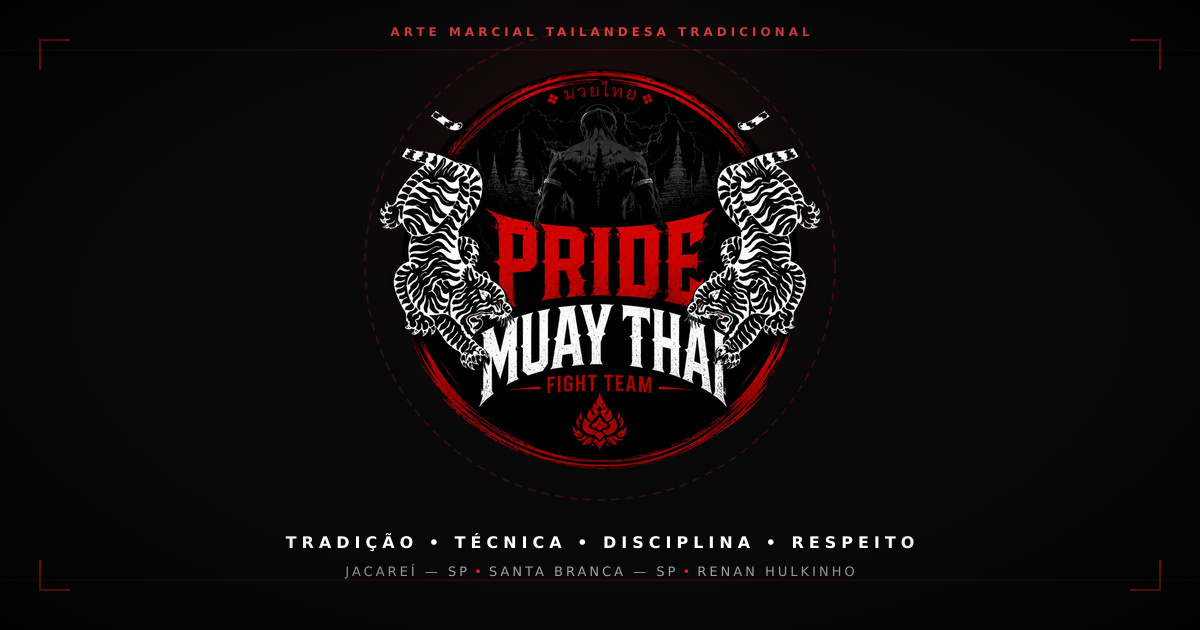
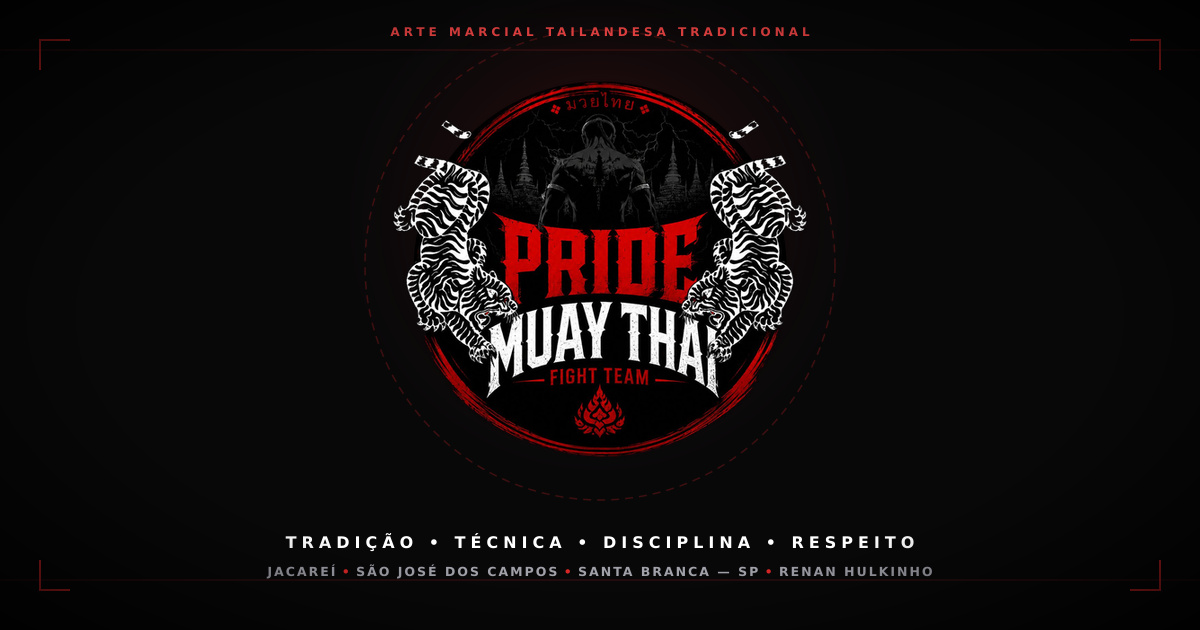
feat: add São José dos Campos to brand locations, SEO, and visual cards

Changed region(s): [[0.3083, 0.0905, 0.6783, 0.754], [0.2158, 0.8746, 0.7708, 0.9349]]

diff --git a/src/components/sections/LocationsSection.tsx b/src/components/sections/LocationsSection.tsx
@@ -22,7 +22,7 @@ export const LocationsSection: React.FC = () => {
             ONDE <span className="text-red-500 text-glow-red">TREINAR?</span>
           </h2>
           <p className="mt-4 text-zinc-400 text-sm sm:text-base leading-relaxed">
-            O Pride Muay Thai atende alunos em duas cidades do Vale do Paraíba. Encontre o ponto ideal para o seu dia a dia.
+            O Pride Muay Thai atende alunos nas principais cidades do Vale do Paraíba. Encontre o polo ideal para o seu dia a dia.
           </p>
         </div>
 
@@ -37,35 +37,38 @@ export const LocationsSection: React.FC = () => {
               <svg viewBox="0 0 800 120" className="w-full h-full" fill="none" xmlns="http://www.w3.org/2000/svg">
                 {/* Background dashed route */}
                 <path
-                  d="M 200 60 C 350 20, 450 100, 600 60"
+                  d="M 140 70 Q 270 20, 400 40 T 660 70"
                   stroke="#27272a"
                   strokeWidth="3"
                   strokeDasharray="6 6"
                 />
                 {/* Glowing red active line */}
                 <path
-                  d="M 200 60 C 350 20, 450 100, 600 60"
+                  d="M 140 70 Q 270 20, 400 40 T 660 70"
                   stroke="#dc2626"
                   strokeWidth="2"
                   strokeOpacity="0.8"
                 />
-                
-                {/* Midpoint route radar pulse */}
-                <circle cx="400" cy="60" r="14" fill="#18181b" stroke="#71717a" strokeWidth="1.5" />
-                <circle cx="400" cy="60" r="4" fill="#dc2626" />
 
                 {/* Jacareí Node */}
-                <circle cx="200" cy="60" r="20" fill="#260e11" stroke="#dc2626" strokeWidth="2.5" />
-                <circle cx="200" cy="60" r="8" fill="#ff1e27" className="animate-pulse" />
+                <circle cx="140" cy="70" r="18" fill="#260e11" stroke="#dc2626" strokeWidth="2.5" />
+                <circle cx="140" cy="70" r="7" fill="#ff1e27" className="animate-pulse" />
+                <text x="140" y="105" textAnchor="middle" fill="#a1a1aa" fontSize="12" fontFamily="monospace">JACAREÍ</text>
+
+                {/* São José dos Campos Node */}
+                <circle cx="400" cy="40" r="20" fill="#260e11" stroke="#dc2626" strokeWidth="2.5" />
+                <circle cx="400" cy="40" r="8" fill="#ff1e27" className="animate-pulse" />
+                <text x="400" y="75" textAnchor="middle" fill="#a1a1aa" fontSize="12" fontFamily="monospace">SÃO JOSÉ DOS CAMPOS</text>
 
                 {/* Santa Branca Node */}
-                <circle cx="600" cy="60" r="20" fill="#260e11" stroke="#dc2626" strokeWidth="2.5" />
-                <circle cx="600" cy="60" r="8" fill="#ff1e27" className="animate-pulse" />
+                <circle cx="660" cy="70" r="18" fill="#260e11" stroke="#dc2626" strokeWidth="2.5" />
+                <circle cx="660" cy="70" r="7" fill="#ff1e27" className="animate-pulse" />
+                <text x="660" y="105" textAnchor="middle" fill="#a1a1aa" fontSize="12" fontFamily="monospace">SANTA BRANCA</text>
               </svg>
             </div>
 
             {/* City Cards Grid */}
-            <div className="grid grid-cols-1 md:grid-cols-2 gap-6 sm:gap-8 relative z-10">
+            <div className="grid grid-cols-1 md:grid-cols-3 gap-5 sm:gap-6 relative z-10">
               
               {/* Jacareí Card */}
               <div className="p-6 sm:p-7 rounded-xl bg-zinc-900/90 border border-zinc-800 hover:border-red-600/60 transition-all duration-300 flex flex-col justify-between group shadow-xl">
@@ -73,16 +76,16 @@ export const LocationsSection: React.FC = () => {
                   <div className="flex items-center justify-between mb-3">
                     <span className="text-xs font-mono uppercase tracking-widest text-red-400 font-semibold flex items-center gap-1.5">
                       <Navigation size={13} />
-                      Cidade Polo
+                      Polo Regional
                     </span>
                     <span className="px-2 py-0.5 rounded text-[11px] font-bold bg-red-950/80 text-red-300 border border-red-800/40">
                       SP
                     </span>
                   </div>
-                  <h3 className="font-fight text-3xl sm:text-4xl text-white uppercase tracking-wide group-hover:text-red-400 transition-colors">
+                  <h3 className="font-fight text-2xl sm:text-3xl text-white uppercase tracking-wide group-hover:text-red-400 transition-colors">
                     Jacareí
                   </h3>
-                  <p className="mt-2 text-zinc-300 text-sm leading-relaxed">
+                  <p className="mt-2 text-zinc-300 text-xs sm:text-sm leading-relaxed">
                     Atividades com acompanhamento técnico contínuo para turmas iniciantes e intermediárias.
                   </p>
                 </div>
@@ -100,23 +103,56 @@ export const LocationsSection: React.FC = () => {
                 </div>
               </div>
 
+              {/* São José dos Campos Card */}
+              <div className="p-6 sm:p-7 rounded-xl bg-zinc-900/90 border border-zinc-800 hover:border-red-600/60 transition-all duration-300 flex flex-col justify-between group shadow-xl">
+                <div>
+                  <div className="flex items-center justify-between mb-3">
+                    <span className="text-xs font-mono uppercase tracking-widest text-red-400 font-semibold flex items-center gap-1.5">
+                      <Navigation size={13} />
+                      Polo Regional
+                    </span>
+                    <span className="px-2 py-0.5 rounded text-[11px] font-bold bg-red-950/80 text-red-300 border border-red-800/40">
+                      SP
+                    </span>
+                  </div>
+                  <h3 className="font-fight text-2xl sm:text-3xl text-white uppercase tracking-wide group-hover:text-red-400 transition-colors">
+                    São José dos Campos
+                  </h3>
+                  <p className="mt-2 text-zinc-300 text-xs sm:text-sm leading-relaxed">
+                    Turmas dinâmicas com foco em técnica autêntica, condicionamento físico de alta intensidade e evolução constante.
+                  </p>
+                </div>
+
+                <div className="mt-6 pt-4 border-t border-zinc-800/80">
+                  <a
+                    href={getWhatsAppUrl("Olá, Renan! Gostaria de saber sobre as unidades e horários em São José dos Campos - SP.")}
+                    target="_blank"
+                    rel="noopener noreferrer"
+                    className="inline-flex items-center gap-2 text-xs uppercase font-mono tracking-wider text-red-400 hover:text-red-300 font-semibold"
+                  >
+                    <span>Ver horários em SJC</span>
+                    <Navigation size={13} className="rotate-45" />
+                  </a>
+                </div>
+              </div>
+
               {/* Santa Branca Card */}
               <div className="p-6 sm:p-7 rounded-xl bg-zinc-900/90 border border-zinc-800 hover:border-red-600/60 transition-all duration-300 flex flex-col justify-between group shadow-xl">
                 <div>
                   <div className="flex items-center justify-between mb-3">
                     <span className="text-xs font-mono uppercase tracking-widest text-red-400 font-semibold flex items-center gap-1.5">
                       <Navigation size={13} />
-                      Cidade Polo
+                      Polo Regional
                     </span>
                     <span className="px-2 py-0.5 rounded text-[11px] font-bold bg-red-950/80 text-red-300 border border-red-800/40">
                       SP
                     </span>
                   </div>
-                  <h3 className="font-fight text-3xl sm:text-4xl text-white uppercase tracking-wide group-hover:text-red-400 transition-colors">
+                  <h3 className="font-fight text-2xl sm:text-3xl text-white uppercase tracking-wide group-hover:text-red-400 transition-colors">
                     Santa Branca
                   </h3>
-                  <p className="mt-2 text-zinc-300 text-sm leading-relaxed">
-                    Treinos dinâmicos com foco em disciplina, biomecânica e desenvolvimento atlético no município.
+                  <p className="mt-2 text-zinc-300 text-xs sm:text-sm leading-relaxed">
+                    Treinos focados em disciplina, biomecânica dos golpes tradicionais e desenvolvimento marcial integral.
                   </p>
                 </div>
 

diff --git a/index.html b/index.html
@@ -7,10 +7,10 @@
     <meta name="viewport" content="width=device-width, initial-scale=1.0, maximum-scale=5.0, viewport-fit=cover" />
     
     <!-- SEO Primary Meta Tags -->
-    <title>Pride Muay Thai | Renan Hulkinho — Treinos em Jacareí e Santa Branca</title>
-    <meta name="title" content="Pride Muay Thai | Renan Hulkinho — Treinos em Jacareí e Santa Branca" />
-    <meta name="description" content="Aprenda Muay Thai autêntico com a equipe Pride Muay Thai liderada por Renan Hulkinho. Força, disciplina, técnica e respeito. Aulas em Jacareí e Santa Branca - SP." />
-    <meta name="keywords" content="Muay Thai Jacareí, Muay Thai Santa Branca, aula de Muay Thai Jacareí, treino de Muay Thai Jacareí, Muay Thai Vale do Paraíba, Pride Muay Thai, Renan Hulkinho, arte das oito armas" />
+    <title>Pride Muay Thai | Renan Hulkinho — Treinos em Jacareí, São José dos Campos e Santa Branca</title>
+    <meta name="title" content="Pride Muay Thai | Renan Hulkinho — Treinos em Jacareí, São José dos Campos e Santa Branca" />
+    <meta name="description" content="Aprenda Muay Thai autêntico com a equipe Pride Muay Thai liderada por Renan Hulkinho. Força, disciplina, técnica e respeito. Aulas em Jacareí, São José dos Campos e Santa Branca - SP." />
+    <meta name="keywords" content="Muay Thai Jacareí, Muay Thai São José dos Campos, Muay Thai Santa Branca, Muay Thai SJC, aula de Muay Thai Jacareí, treino de Muay Thai Jacareí, Muay Thai Vale do Paraíba, Pride Muay Thai, Renan Hulkinho, arte das oito armas" />
     <meta name="author" content="Pride Muay Thai" />
     <meta name="robots" content="index, follow" />
     <link rel="canonical" href="https://luscanascimento.github.io/pride-muay-thai/" />
@@ -19,7 +19,7 @@
     <meta property="og:type" content="website" />
     <meta property="og:url" content="https://luscanascimento.github.io/pride-muay-thai/" />
     <meta property="og:title" content="Pride Muay Thai | Renan Hulkinho" />
-    <meta property="og:description" content="Tradição, técnica e disciplina. Treine Muay Thai autêntico em Jacareí e Santa Branca com Renan Hulkinho." />
+    <meta property="og:description" content="Tradição, técnica e disciplina. Treine Muay Thai autêntico em Jacareí, São José dos Campos e Santa Branca com Renan Hulkinho." />
     <meta property="og:image" content="./og-image.jpg" />
     <meta property="og:site_name" content="Pride Muay Thai" />
     <meta property="og:locale" content="pt_BR" />
@@ -28,7 +28,7 @@
     <meta property="twitter:card" content="summary_large_image" />
     <meta property="twitter:url" content="https://luscanascimento.github.io/pride-muay-thai/" />
     <meta property="twitter:title" content="Pride Muay Thai | Renan Hulkinho" />
-    <meta property="twitter:description" content="Tradição, técnica e disciplina. Treine Muay Thai autêntico em Jacareí e Santa Branca com Renan Hulkinho." />
+    <meta property="twitter:description" content="Tradição, técnica e disciplina. Treine Muay Thai autêntico em Jacareí, São José dos Campos e Santa Branca com Renan Hulkinho." />
     <meta property="twitter:image" content="./og-image.jpg" />
 
     <!-- Theme Color -->
@@ -50,7 +50,7 @@
           "@id": "https://luscanascimento.github.io/pride-muay-thai/#sportsclub",
           "name": "Pride Muay Thai",
           "alternateName": "Pride Muay Thai - Renan Hulkinho",
-          "description": "Centro de treinamento de Muay Thai tradicional em Jacareí e Santa Branca - SP, conduzido pelo treinador Renan Hulkinho.",
+          "description": "Centro de treinamento de Muay Thai tradicional em Jacareí, São José dos Campos e Santa Branca - SP, conduzido pelo treinador Renan Hulkinho.",
           "url": "https://luscanascimento.github.io/pride-muay-thai/",
           "telephone": "+55-12-99174-6964",
           "image": "./og-image.jpg",
@@ -59,6 +59,14 @@
             {
               "@type": "City",
               "name": "Jacareí",
+              "containedInPlace": {
+                "@type": "AdministrativeArea",
+                "name": "São Paulo"
+              }
+            },
+            {
+              "@type": "City",
+              "name": "São José dos Campos",
               "containedInPlace": {
                 "@type": "AdministrativeArea",
                 "name": "São Paulo"

diff --git a/src/components/sections/Hero.tsx b/src/components/sections/Hero.tsx
@@ -53,10 +53,14 @@ export const Hero: React.FC = () => {
           </p>
 
           {/* Location Badges */}
-          <div className="mt-4 sm:mt-5 flex flex-col sm:flex-row items-center justify-center lg:justify-start gap-2 text-xs sm:text-sm font-medium text-zinc-300 w-full sm:w-auto">
+          <div className="mt-4 sm:mt-5 flex flex-wrap items-center justify-center lg:justify-start gap-2 text-xs sm:text-sm font-medium text-zinc-300 w-full sm:w-auto">
             <div className="inline-flex items-center gap-1.5 px-3 py-1 rounded-md bg-zinc-900/90 border border-zinc-800/80">
               <MapPin size={13} className="text-red-500 flex-shrink-0" />
               <span>Jacareí — SP</span>
+            </div>
+            <div className="inline-flex items-center gap-1.5 px-3 py-1 rounded-md bg-zinc-900/90 border border-zinc-800/80">
+              <MapPin size={13} className="text-red-500 flex-shrink-0" />
+              <span>São José dos Campos — SP</span>
             </div>
             <div className="inline-flex items-center gap-1.5 px-3 py-1 rounded-md bg-zinc-900/90 border border-zinc-800/80">
               <MapPin size={13} className="text-red-500 flex-shrink-0" />

diff --git a/src/constants/brand.ts b/src/constants/brand.ts
@@ -2,7 +2,7 @@ export const BRAND = {
   name: "PRIDE MUAY THAI",
   coach: "Renan Hulkinho",
   tagline: "Tradição. Técnica. Disciplina.",
-  subtagline: "Treine Muay Thai em Jacareí e Santa Branca com acompanhamento dedicado, respeito e evolução constante.",
+  subtagline: "Treine Muay Thai em Jacareí, São José dos Campos e Santa Branca com acompanhamento dedicado, respeito e evolução constante.",
   instagramUrl: "https://www.instagram.com/prideemuaythai/",
   instagramHandle: "@prideemuaythai",
   phoneDisplay: "+55 (12) 99174-6964",
@@ -14,6 +14,13 @@ export const BRAND = {
       state: "SP",
       region: "Vale do Paraíba",
       highlight: "Unidades com estrutura completa para treino técnico e condicionamento",
+      guidance: "Fale com o Renan para saber a unidade e grade de horários mais convenientes para você.",
+    },
+    {
+      city: "São José dos Campos",
+      state: "SP",
+      region: "Vale do Paraíba",
+      highlight: "Treinos com foco técnico, condicionamento de alta intensidade e evolução constante",
       guidance: "Fale com o Renan para saber a unidade e grade de horários mais convenientes para você.",
     },
     {

diff --git a/src/components/sections/TeamPrideSection.tsx b/src/components/sections/TeamPrideSection.tsx
@@ -46,7 +46,7 @@ export const TeamPrideSection: React.FC = () => {
               </h2>
 
               <p className="mt-5 text-zinc-300 text-base sm:text-lg leading-relaxed">
-                Sob a liderança do treinador <strong>{BRAND.coach}</strong>, o Pride Muay Thai nasceu para levar a arte marcial tailandesa com autenticidade, seriedade e dedicação técnica às cidades de <strong>Jacareí</strong> e <strong>Santa Branca</strong>.
+                Sob a liderança do treinador <strong>{BRAND.coach}</strong>, o Pride Muay Thai nasceu para levar a arte marcial tailandesa com autenticidade, seriedade e dedicação técnica às cidades de <strong>Jacareí</strong>, <strong>São José dos Campos</strong> e <strong>Santa Branca</strong>.
               </p>
 
               <p className="mt-3 text-zinc-400 text-sm sm:text-base leading-relaxed">

diff --git a/src/components/layout/Footer.tsx b/src/components/layout/Footer.tsx
@@ -46,6 +46,7 @@ export const Footer: React.FC = () => {
               Atividades
             </span>
             <span className="text-sm text-zinc-300">Jacareí — SP</span>
+            <span className="text-sm text-zinc-300">São José dos Campos — SP</span>
             <span className="text-sm text-zinc-300">Santa Branca — SP</span>
             <p className="text-xs text-zinc-400 mt-2 leading-relaxed">
               Consulte com o Renan a unidade e os horários mais convenientes.
